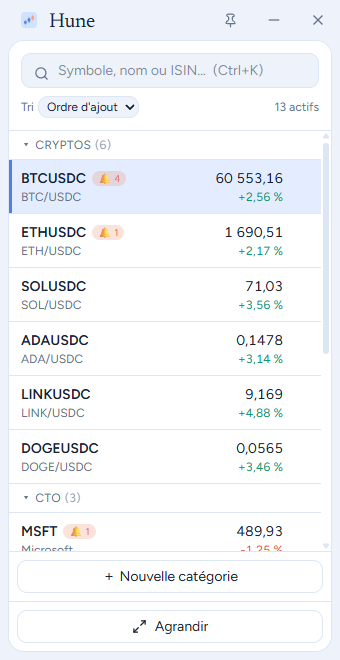
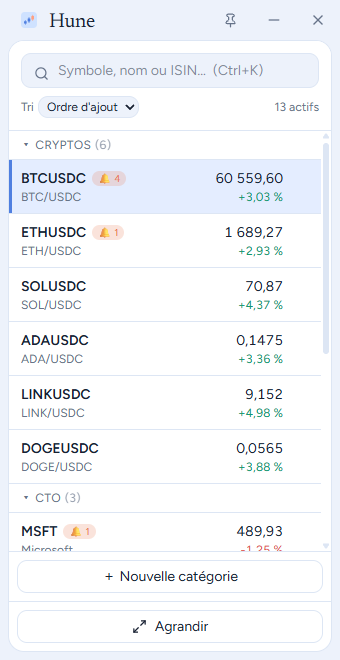
Hune 0.7.0 : README, changelog et captures

diff --git a/README.md b/README.md
@@ -33,13 +33,15 @@ Hune réunit ce qui sert au quotidien (graphiques, indicateurs, alertes, portefe
 
 ### Graphiques et indicateurs
 
-Chandeliers de **15 min à 1 mois** (15 min, 1 h, 4 h, 1 j, 1 sem, 1 mois), Heikin-Ashi, ligne ou aire. SMA, EMA, bandes de Bollinger, RSI, MACD, stochastique et volume, tous **paramétrables**, avec échelle logarithmique, légende OHLC et recentrage en un geste. Cryptos en temps réel via Binance, actions via Yahoo Finance (données différées).
+Chandeliers de **15 min à 1 mois** (15 min, 1 h, 4 h, 1 j, 1 sem, 1 mois), Heikin-Ashi, ligne ou aire. SMA, EMA, bandes de Bollinger, RSI, MACD, stochastique et volume, tous **paramétrables**, avec échelle logarithmique, légende OHLC et recentrage en un geste (vue par défaut : journalier, 6 mois, volume + SMA + EMA + RSI). Cryptos en temps réel via Binance, actions via Yahoo Finance (données différées).
+
+**Outils de tracé** : ligne horizontale, ligne de tendance, rayon, retracement de **Fibonacci** et gomme. Les tracés sont mémorisés par actif et suivent le zoom. **Votre portefeuille sur le graphique** : PAMP, objectif (TP) et repères d'achat/vente de vos transactions importées.
 
 **Historique long** : à partir du journalier, choisissez la profondeur *Standard*, *5 ans* ou *Max*, ou **dézoomez simplement** : au-delà de la première bougie, Hune charge la profondeur suivante. Binance remonte jusqu'au début de la cotation de la paire (BTC/USDC : 2018, BTC/USDT : 2017) ; Yahoo remonte jusqu'à l'introduction en bourse (Microsoft : 1986) ou à la création de la crypto (BTC : 2014). Aucune clé n'est nécessaire. En intraday, les sources limitent elles-mêmes la profondeur.
 
 ### Alertes
 
-Prix, variation en %, RSI, cours qui franchit une moyenne mobile, croisement MACD/signal, croisement de moyennes (golden / death cross). Une alerte se déclenche **une seule fois** puis se réarme d'un clic. Elles sont **tracées sur le graphique**, un **clic droit** sur le cours crée une alerte à ce niveau, et le bouton crayon permet de **modifier** une alerte existante.
+Prix, variation en %, RSI, cours qui franchit une moyenne mobile, croisement MACD/signal, croisement de moyennes (golden / death cross). Une alerte se déclenche **une seule fois** puis se réarme d'un clic. Elles sont **tracées sur le graphique**, un **clic droit** sur le cours crée une alerte à ce niveau, et le bouton crayon permet de **modifier** une alerte existante. Sur le graphique, une alerte de prix se **déplace à la souris** (glisser la ligne) ou s'édite d'un double-clic.
 
 <p align="center">
   <picture>
@@ -115,6 +117,7 @@ Hune ne contacte que des services publics de données, **sans jamais leur envoye
 
 ## Limites à connaître
 
+- **Variation des cryptos** : par défaut sur 24 h glissantes (valeur de Binance) ; Réglages permet de choisir « depuis 00:00 UTC », la définition de TradingView. Les deux ne coïncident pas (la seconde repart de zéro chaque nuit).
 - **Actions : données différées** (souvent ~15 min). La source est un **endpoint Yahoo Finance non officiel** : il peut changer, être limité ou bloqué sans préavis. L'interface indique « Données différées » ; les cryptos Binance sont en temps réel.
 - Les **alertes ne tournent que si Hune est lancée** (fenêtre fermée dans la zone de notification, oui ; application quittée ou Windows en veille, non). Seul l'état courant est évalué.
 - Le **4 h** des actions est reconstruit à partir du 1 h, par paquets UTC qui ne suivent pas les horaires de séance.

diff --git a/CHANGELOG.md b/CHANGELOG.md
@@ -3,6 +3,18 @@
 Toutes les évolutions notables de Hune. Format inspiré de [Keep a Changelog](https://keepachangelog.com/fr/1.1.0/) ; les versions suivent [SemVer](https://semver.org/lang/fr/).
 Le texte de chaque version sert de notes pour la release GitHub (`scripts/publier.ps1`).
 
+## [0.7.0] - 2026-11-26
+
+### Ajouté
+- **Outils de tracé** sur le graphique : ligne horizontale, ligne de tendance, rayon, retracement de Fibonacci (niveaux 0 à 1 avec prix) et gomme. Les tracés sont mémorisés par actif, suivent le zoom et l'échelle logarithmique, et font partie de la sauvegarde. Un clic droit sur un tracé propose de le supprimer.
+- **Portefeuille sur le graphique** : bouton « Portefeuille » affichant le PAMP, l'objectif (TP), un niveau par lot et, pour les transactions importées, une flèche d'achat ou de vente sur la bougie (prix indiqué). Les repères viennent de l'import CSV : réimportez votre fichier pour les voir.
+- **Alertes modifiables depuis le graphique** : glisser la ligne d'une alerte de prix la déplace (elle est réarmée, son sens s'ajuste au prix actuel) ; double-clic ou clic droit › « Modifier cette alerte » ouvre le formulaire ; clic droit › « Supprimer cette alerte ».
+- **Réglage « Variation des cryptos »** : 24 h glissantes (Binance, comme avant) ou depuis 00:00 UTC (la définition de TradingView). S'applique à la liste, à la carte Marché et à l'en-tête.
+
+### Modifié
+- **Vue par défaut du graphique** : journalier, bougies, échelle logarithmique, volume + SMA 20 + EMA 50 + RSI 14. À l'ouverture et au recentrage, le graphique montre 6 mois en journalier (durée adaptée aux autres intervalles). Vos réglages déjà enregistrés ne changent pas.
+- Les cartes ne se soulèvent plus au survol (bordure et ombre légères conservées).
+
 ## [0.6.1] - 2026-11-26
 
 ### Corrigé
